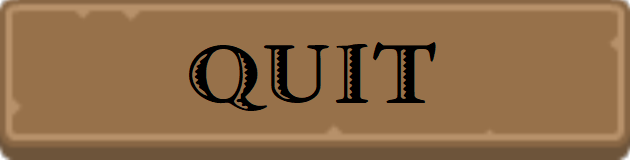
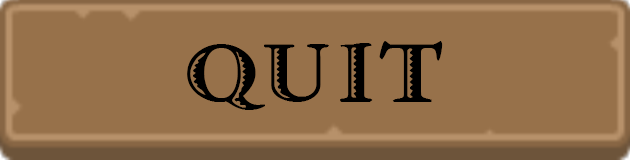
fixed quit transparency

Changed region(s): [[0.2714, 0.25, 0.7238, 0.7188]]

diff --git a/src/main/java/ivara/scenes/StartMenu.java b/src/main/java/ivara/scenes/StartMenu.java
@@ -63,7 +63,7 @@ public class StartMenu extends Scene{
 
         //--- Quit button
         UIEntity quit = new UIEntity(new Vector(XMARGIN_LEFT + btnSpaceX + (btnCount++*(BUTTON_WIDTH + btnSpaceX)),YPOS),
-                new Sprite(new ResourceID("resume"), new Vector(0, 0), new Vector(BUTTON_WIDTH, BUTTON_HEIGHT)),
+                new Sprite(new ResourceID("quit"), new Vector(0, 0), new Vector(BUTTON_WIDTH, BUTTON_HEIGHT)),
                 new AABBCollider(AABBCollider.MIN_DIM, new Vector(0, 0), new Vector(BUTTON_WIDTH, BUTTON_HEIGHT)));
         quit.addListener(new UIListener() {
             @Override
